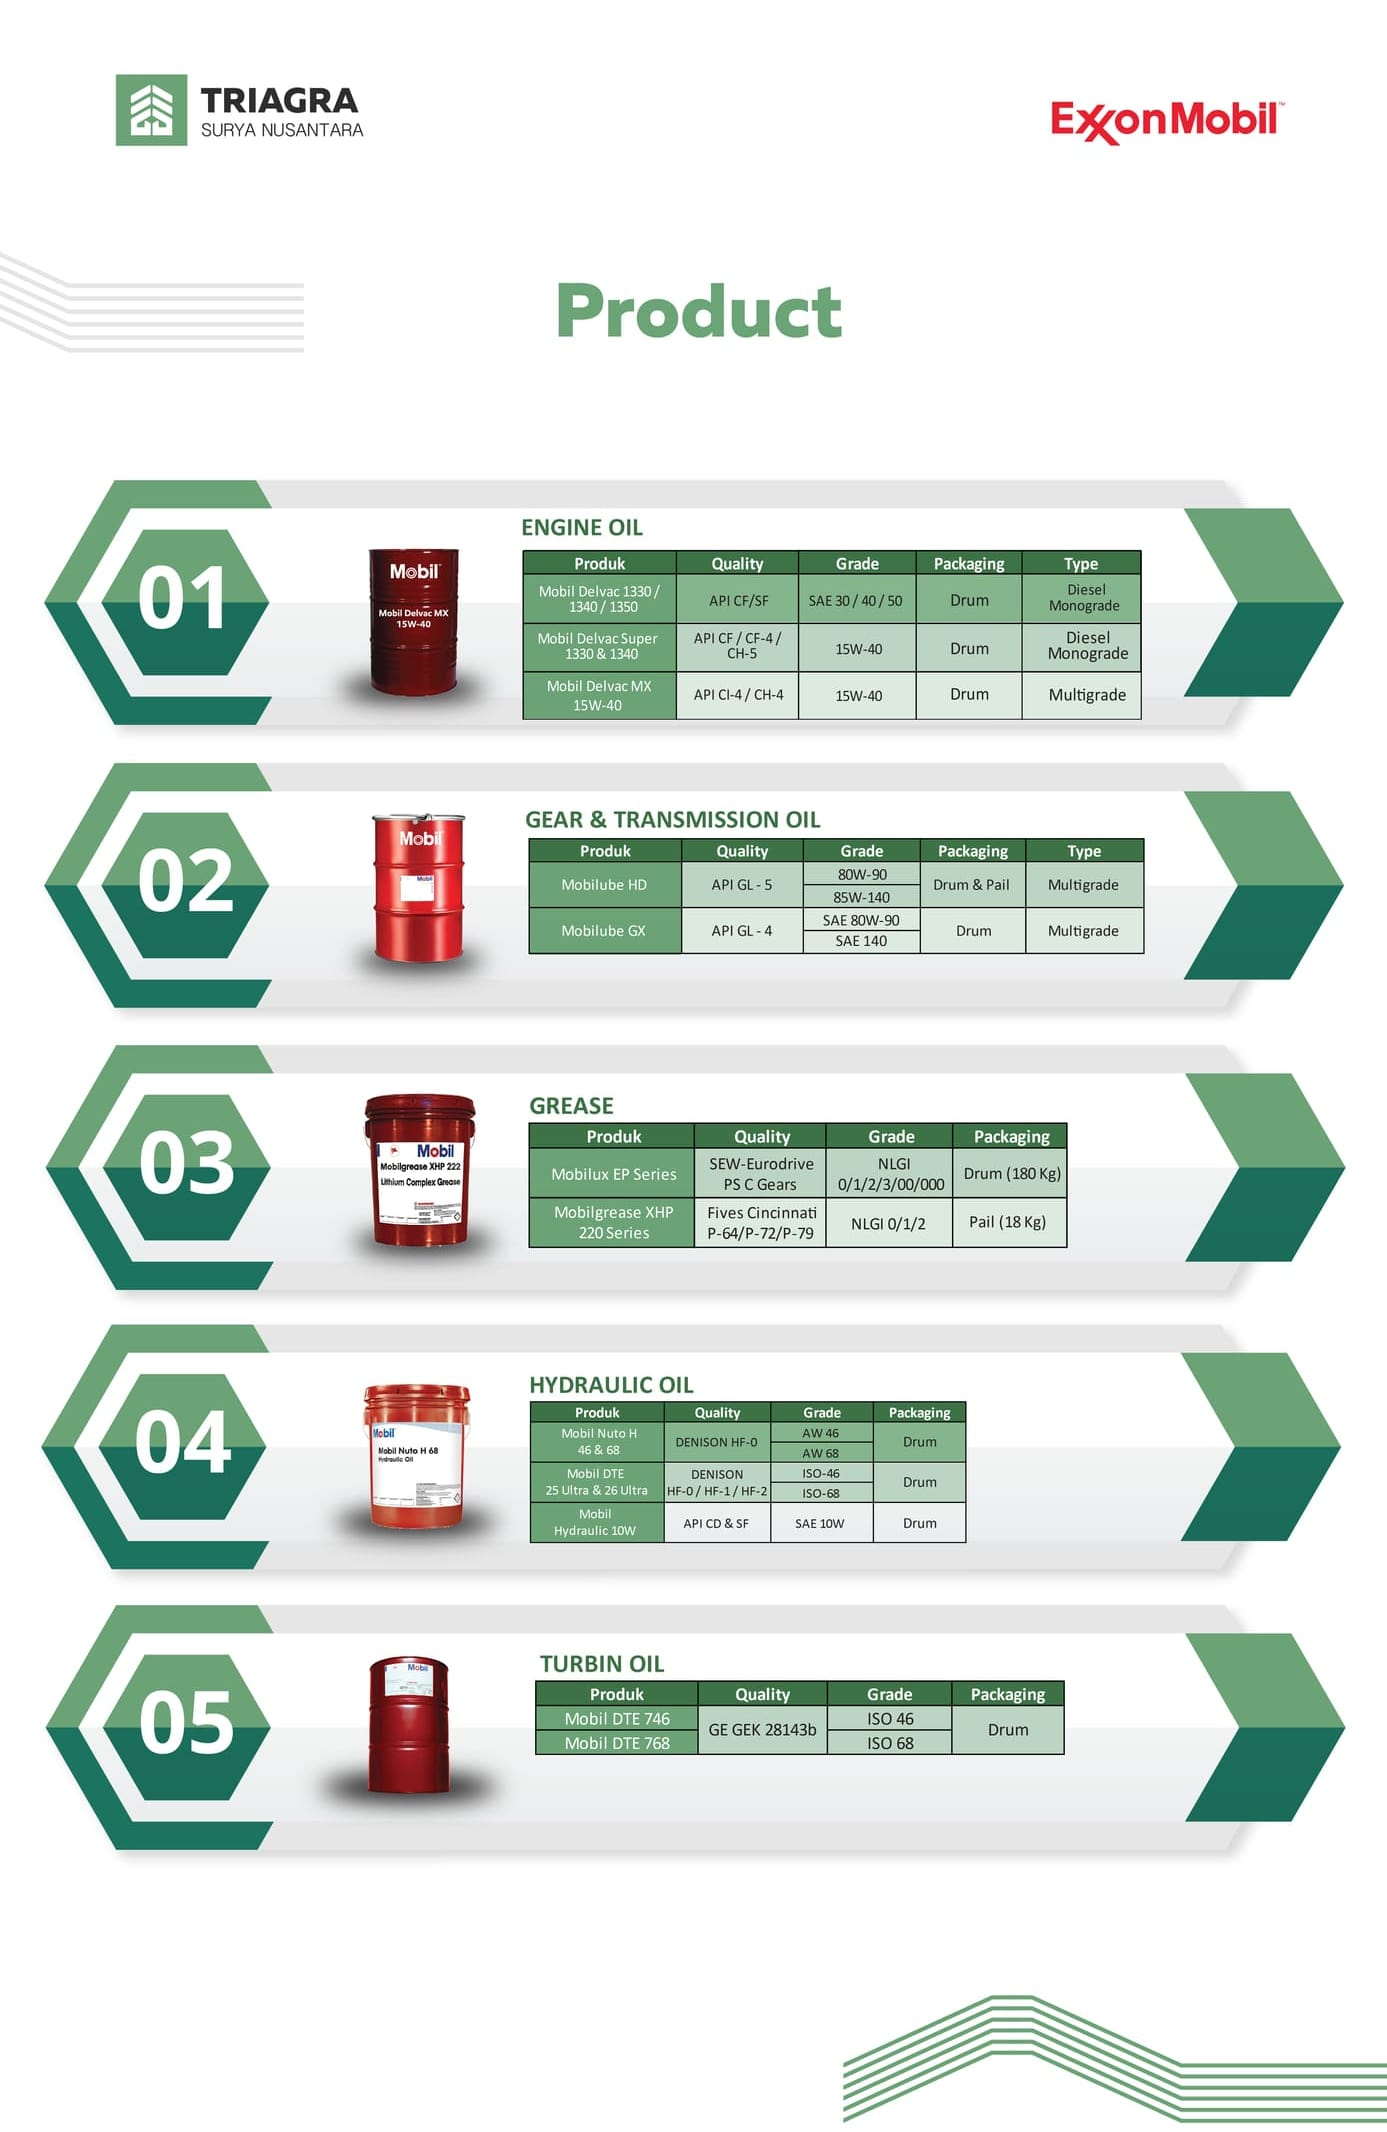
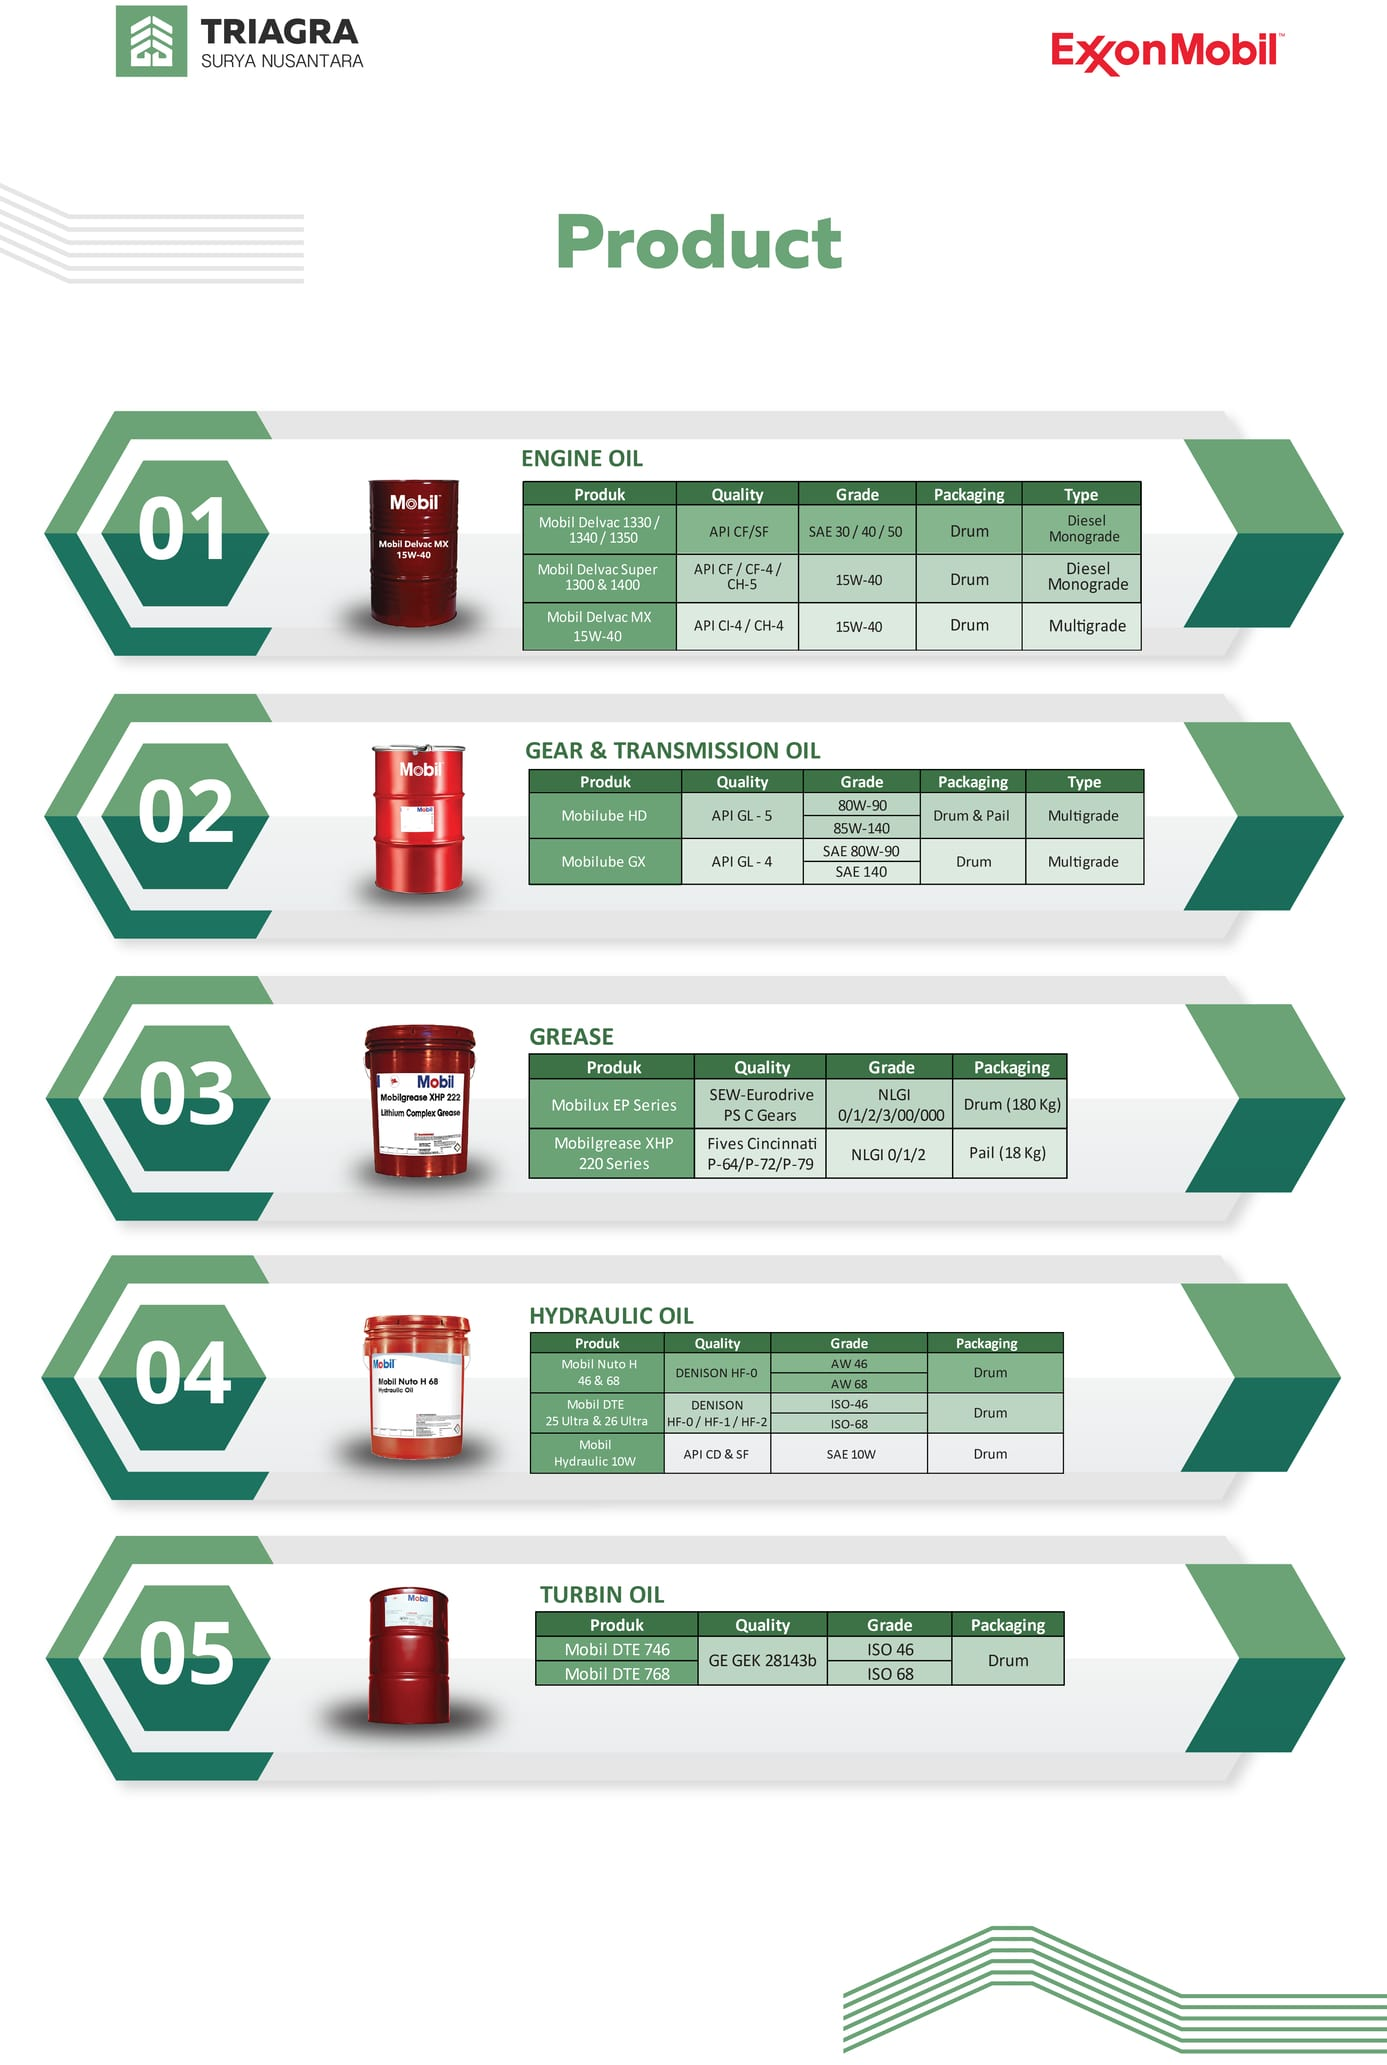
perubahan image project dan imag1, fix tampilan product

diff --git a/product.php b/product.php
@@ -10,11 +10,12 @@ $r = mysqli_fetch_assoc($sql);
     <meta http-equiv="Content-Type" content="text/html; charset=iso-8859-1">
     <link rel="shortcut icon" href="favicon.png">
 </head>
-<link rel="stylesheet" type="text/css" href="https://stackpath.bootstrapcdn.com/font-awesome/4.7.0/css/font-awesome.min.css">
+<link rel="stylesheet" type="text/css"
+      href="https://stackpath.bootstrapcdn.com/font-awesome/4.7.0/css/font-awesome.min.css">
 <link rel="stylesheet" type="text/css" href="css/bootstrap.css">
 <link rel="stylesheet" type="text/css" href="css/style.css">
 <style type="text/css">
-    label{
+    label {
         font-weight: bolder;
     }
 </style>
@@ -49,7 +50,7 @@ $r = mysqli_fetch_assoc($sql);
     </div>
 </div>
 
-<div style="height: 2132px; width: 1366px; background-image:url(images/temp/product.jpg); background-repeat:no-repeat; background-size: 100% 100%; padding: 50px; padding-right: 0; padding-top: 120px;">
+<div id="product">
 </div>
 <br/>
 <br/>
@@ -58,21 +59,23 @@ $r = mysqli_fetch_assoc($sql);
     <h4><b>Product Data Sheet</b></h4>
     <table class="table" style="width: 100%">
         <tr>
-            <th width="30%">Name</th>
-            <th width="60%">Description</th>
+            <th width="45%">Name</th>
+            <th width="45%">Description</th>
             <th width="10%">Download</th>
         </tr>
         <?php
         $sql_ = mysqli_query($con, "SELECT * from tr_product");
-        while ($r_ = mysqli_fetch_assoc($sql_)){
-            $link = "tradmin/files/".$r_['filename'];
+        while ($r_ = mysqli_fetch_assoc($sql_)) {
+            $link = "tradmin/files/" . $r_['filename'];
             ?>
             <tr>
                 <td><?= $r_['name'] ?></td>
                 <td><?= $r_['description'] ?></td>
-                <td align="center"><a href="<?= $link ?>" download><i class="fa fa-download fa-2x" style="color: green;margin-right: 30px;""></i></a></td>
+                <td align="center"><a href="<?= $link ?>" download><i class="fa fa-download fa-2x"
+                                                                      style="color: green;margin-right: 30px;""></i></a>
+                </td>
             </tr>
-        <?php
+            <?php
         }
         ?>
     </table>
@@ -88,10 +91,24 @@ $r = mysqli_fetch_assoc($sql);
     </div>
     <div style="float:right; width:45%; color:#fff;" align="right">
         <img src="images/WEB_TRIAGRA_1366x768-rev_03.png" style="margin: 80px; margin-top: 40px; margin-bottom: 0px;">
-        <p style="margin: 80px; margin-top: 50px; font-size: 14px;">Copyright &copy; <?= $r['nama_perusahaan'] ?> <?= date("Y") ?></p>
+        <p style="margin: 80px; margin-top: 50px; font-size: 14px;">Copyright
+            &copy; <?= $r['nama_perusahaan'] ?> <?= date("Y") ?></p>
     </div>
 </div>
 
 <script src="scripts/custom.js"></script>
 </body>
 </html>
+<style>
+    #product {
+        margin-top: 50px;
+        height: 2132px;
+        width: 1366px;
+        background-image: url(images/temp/product.jpg);
+        background-repeat: no-repeat;
+        background-size: 100% 100%;
+        padding: 50px;
+        padding-right: 0;
+        padding-top: 120px;
+    }
+</style>

diff --git a/index.php b/index.php
@@ -96,7 +96,7 @@ $r = mysqli_fetch_assoc($sql);
     }
 
     #image1 {
-        background-image: url(images/WEB_TRIAGRA_1366x768-rev_23.png);
+        background-image: url(images/temp/image1.jpg);
         position: absolute;
         left: 0px;
         top: 936px;
